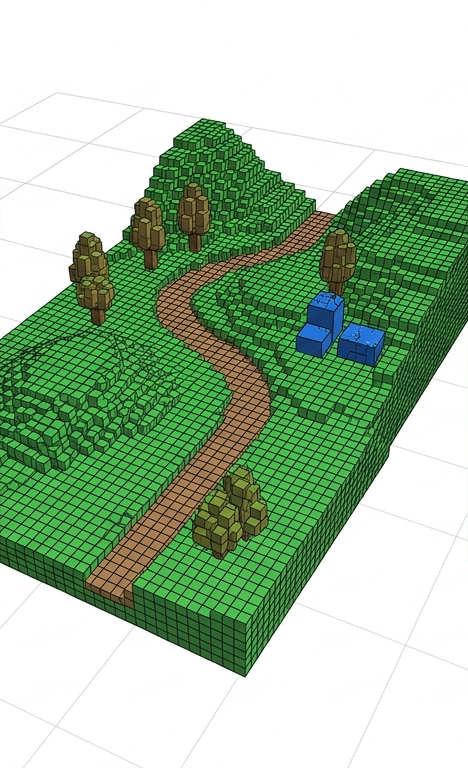
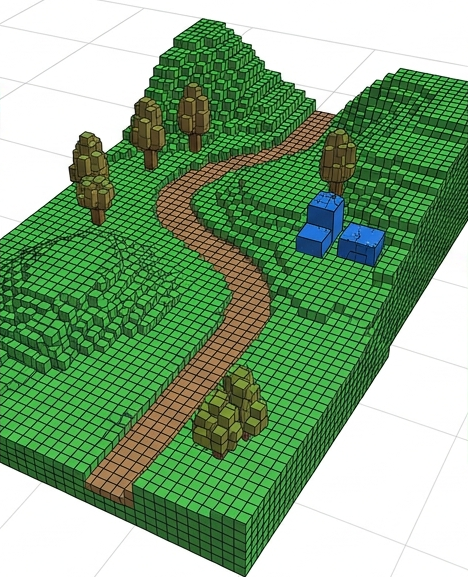
add

diff --git a/secs/3_Datengrundlage/3_3_Software-Architektur_und_verwendete_Werkzeuge.tex b/secs/3_Datengrundlage/3_3_Software-Architektur_und_verwendete_Werkzeuge.tex
@@ -1,23 +1,28 @@
 \subsection{Software-Architektur und verwendete Werkzeuge}
 
-Die automatisierte Datenverarbeitung und Visualisierung erfolgt in der Programmiersprache \textit{Python (Version 3.11.15)} \cite{zotero-item-49}. Zur Bereitstellung einer reproduzierbaren und systemunabhängigen Entwicklungsumgebung kommt die Distributionsplattform \textit{Anaconda (Version 26.1.1)} \cite{zotero-item-50} zum Einsatz. Somit können Versionskonflikte zwischen den teils komplexen C-basierten Abhängigkeiten der verwendeten Geodaten-Bibliotheken vermieden werden. Das Fundament der Vektor- und Rasterdatenverarbeitung sowie der räumlichen Referenzierung bilden folgende Bibliotheken:
-\begin{itemize}
-  \item \textit{GeoPandas (Version 1.1.3)} \cite{zotero-item-51}
-  \item \textit{Shapely (Version 2.1.2)} \cite{zotero-item-52}
-  \item \textit{Rasterio (Version 1.4.4)} \cite{zotero-item-53} 
-\end{itemize}
+Die automatisierte Datenverarbeitung und Visualisierung erfolgt in der Programmiersprache \textit{Python (Version 3.11.15)} \cite{zotero-item-49}. Zur Bereitstellung einer reproduzierbaren und systemunabhängigen Entwicklungsumgebung kommt die Distributionsplattform \textit{Anaconda (Version 26.1.1)} \cite{zotero-item-50} zum Einsatz. Somit können Versionskonflikte zwischen den teils komplexen C-basierten Abhängigkeiten der verwendeten Geodaten-Bibliotheken vermieden werden. Die verwendeten Bibliotheken sowie ihr Einsatzgebiet sind in Tabelle \ref{tab:python-lib} dargestellt.
 
-Die vorbereitende Verarbeitung der originalen LiDAR-Punktwolken übernehmen spezialisierte Bibliotheken wie
-\begin{itemize}
-    \item \textit{PDAL (Version 2.10.0)} \cite{zotero-item-54}
-    \item \textit{Laspy (Version 2.7.0)} \cite{zotero-item-55}
-\end{itemize}
 
-Aufbauend auf diesen bereinigten Daten erfolgt die Segmentierung durch den Einsatz mathematischer Algorithmen aus 
-\begin{itemize}
-    \item \textit{SciPy (Version 1.17.1)} \cite{zotero-item-70} 
-    \item \textit{scikit-image (Version 0.26.0)} \cite{zotero-item-72}
-\end{itemize}
-Für die Visualisierung wurde primär \textit{PyVista (Version 0.48.4)} \cite{zotero-item-56} eingesetzt.
+
+\begin{table}[htbp]
+\centering
+\caption{Übersicht der eingesetzten Softwarekomponenten und Python-Bibliotheken}
+\label{tab:python-lib}
+\small
+\begin{tabular*}{\textwidth}{@{\extracolsep{\fill}} l p{2.2cm} p{1.2cm} p{4.2cm} p{4.0cm} @{}}
+\toprule
+\textbf{Kategorie} & \textbf{Bibliothek} & \textbf{Version} & \textbf{Funktion} & \textbf{Referenz} \\
+\midrule
+\addlinespace
+\textbf{Geodaten} & GeoPandas \newline Shapely \newline Rasterio & 1.1.3 \newline 2.1.2 \newline 1.4.4 & Vektor- und Rasterdatenverarbeitung; räumliche Referenzierung. & \cite{zotero-item-51} \newline \cite{zotero-item-52} \newline \cite{zotero-item-53} \\
+\addlinespace
+\textbf{Punktwolken} & PDAL \newline Laspy & 2.10.0 \newline 2.7.0 & Verarbeitung, Filterung und Einlesen der originalen LiDAR-Daten & \cite{zotero-item-54} \newline \cite{zotero-item-55} \\
+\addlinespace
+\textbf{Segmentierung} & SciPy \newline scikit-image & 1.14.0 \newline 0.26.0 & Mathematische Algorithmen und Raster-Segmentierung & \cite{zotero-item-70} \newline \cite{zotero-item-72} \\
+\addlinespace
+\textbf{Visualisierung} & PyVista & 0.48.4 & Interaktives 3D-Rendering und visuelle Qualitätskontrolle & \cite{zotero-item-56}  \\
+\bottomrule
+\end{tabular*}
+\end{table}
 
 Abseits der Codeumgebung war eine visuelle Qualitätskontrolle der räumlichen Daten unerlässlich. Hierfür wurde die Open-Source-Software \textit{CloudCompare (Version 2.13.2)} \cite{zotero-item-57} eingesetzt, die ein performantes Rendering der ALS-Datensätze ermöglicht.

diff --git a/secs/2_Hintergrund/2_2_1_Raster-_versus_punktwolkenbasierte_Verfahren_zur_Einzelbaumsegmentierung.tex b/secs/2_Hintergrund/2_2_1_Raster-_versus_punktwolkenbasierte_Verfahren_zur_Einzelbaumsegmentierung.tex
@@ -3,22 +3,21 @@
 Bei der Segmentierung von Bäumen auf Basis von LiDAR-Daten wird grundlegend zwischen \textit{raster- und punktwolkenbasierten Verfahren} unterschieden. Beide Ansätze sind schematisch in Abbildung \ref{fig:raster-vs-pointcloud} präsentiert. Im Folgenden werden die beiden Ansätze gegenübergestellt und deren Eignung für den Kontext urbaner Bäume eingeordnet.
 \begin{figure}[htbp]
     \centering
-    \begin{subfigure}[c]{0.21\columnwidth}%
-        \centering%
-        \includegraphics[width=\textwidth]{imgs/Raster.png}%
-        \caption{Rasterbasiertes Verfahren}%
-        \label{fig:raster}%
-    \end{subfigure}%
-    \hfill%
-    \begin{subfigure}[c]{0.21\columnwidth}%
-        \centering%
-        \includegraphics[width=\textwidth]{imgs/Pointcloud.png}%
-        \caption{Punktwolkenbasiertes Verfahren}%
-        \label{fig:pointcloud}%
-    \end{subfigure}%
-    \caption[Raster- und Punktwolken Darstellung]{Schematischer Vergleich raster- und punktwolkenbasierter Segmentierungsverfahren (generiert mit Google Gemini, generiert am 15.07.2026)}\label{fig:raster-vs-pointcloud}
+    \begin{subfigure}[c]{0.21\columnwidth}
+        \centering
+        \includegraphics[width=\textwidth]{imgs/Raster.png}
+        \caption{Rasterbasiertes Verfahren}
+        \label{fig:raster}
+    \end{subfigure}
+    \hspace{2cm}
+    \begin{subfigure}[c]{0.21\columnwidth}
+        \centering
+        \includegraphics[width=\textwidth]{imgs/Pointcloud.png}
+        \caption{Punktwolkenbasiertes Verfahren}
+        \label{fig:pointcloud}
+    \end{subfigure}
+    \caption[Raster- und Punktwolken Darstellung]{Schematischer Vergleich raster- und punktwolkenbasierter Verfahren (generiert mit Google Gemini, generiert am 15.07.2026)}\label{fig:raster-vs-pointcloud}
 \end{figure}
-
 Beim \textit{rasterbasierten Segmentierungsverfahren} (Abbildung \ref{fig:raster}) wird die 3D-Punktwolke zunächst auf ein planares Raster projiziert, um ein Kronenhöhenmodell (Canopy Height Model, \ac{CHM}) oder ein \textit{digitales Oberflächenmodell (\ac{DOM})} zu erzeugen. Auf dieses 2D-Raster können Bildverarbeitungsalgorithmen angewandt werden. Ein typischer Ablauf beginnt mit der Identifizierung von Baumspitzen über einen Local-Maximum-Filter. Diese detektierten Spitzen dienen als Startpunkte für ein anschließendes \textit{Region Growing}, bei dem benachbarte Pixel nach bestimmten Regeln hinzugefügt werden. Eine weitere gängige Methode ist der \textit{Watershed-} bzw. \textit{Marker-controlled Watershed-Algorithmus}, welcher das Fließen von Wasser auf einem invertierten Rastermodell simuliert, um Baumgrenzen zu isolieren. Während die verfahrenstechnischen Details dieses rasterbasierten Algorithmus im Methodikkapitel (Kapitel 4) vertieft wird, umfassen ergänzende Ansätze folgende Verfahren.\textit{Valley Following} sucht gezielt nach lokalen Minima, um Lücken und Vertiefungen zwischen einzelnen Baumkronen zu detektieren und \textit{Graph-Cut} schneidet die Kronengrenzen entlang der schwächsten Kante \cite{fuIndividualTreeSegmentationUAV2024}.
 
 Der wesentliche Vorteil dieses Ansatzes liegt in seiner hohen Recheneffizienz, wodurch er sich für großflächige Analysen eignet. Zudem lässt sich ein CHM mit geringem Aufwand generieren. Demgegenüber steht jedoch ein systematischer Verlust an 3D-Informationen im Rasterisierungsprozess, da primär die obere Kronenschicht abgebildet wird. Infolgedessen bleiben Bäume in Unterschichten unberücksichtigt, was insbesondere in dichten, mehrschichtigen Beständen zu Segmentierungsfehlern führt \cite{munzingerMappingUrbanForest2022}. Zudem können bei der Generierung des Rastermodells Fehlstellen (\textit{Pits}) entstehen, welche die Genauigkeit nachfolgender Algorithmen stark beeinträchtigen und eine vorherige Interpolation bzw. Glättung erfordern \cite{liIndividualTreeSegmentation2023}.

diff --git a/secs/2_Hintergrund/2_2_2_Visualisierung_von_Baumstrukturen.tex b/secs/2_Hintergrund/2_2_2_Visualisierung_von_Baumstrukturen.tex
@@ -3,23 +3,23 @@
 Nach der Auswertung und Verarbeitung der LiDAR-Punktwolke soll eine adäquate Repräsentation der erfassten Baumstrukturen erfolgen. Die hierfür existierenden Methoden lassen sich im Wesentlichen in die drei in Abbildung \ref{fig:vis} dargestellten Kategorien unterteilen. Dazu gehören die \textit{direkte Visualisierung} (Abbildung \ref{fig:direct}) von Punktwolken, die \textit{voxelbasierte} Diskretisierung (Abbildung \ref{fig:voxel}) und die Modellierung mittels \textit{Polygonnetzen (Meshes)} (Abbildung \ref{fig:mesh}). Da diese Verfahren unterschiedliche geometrische Eigenschaften abbilden, können sie in der Praxis auch komplementär eingesetzt werden.
 \begin{figure}[htbp]
     \centering
-    \begin{subfigure}[b]{0.31\columnwidth}
+    \begin{subfigure}[b]{0.29\columnwidth}
         \centering
-        \includegraphics[width=0.9\textwidth]{imgs/vis-direct.png}
+        \includegraphics[width=\textwidth]{imgs/vis-direct.png}
         \caption{Direkte Visualisierung}
         \label{fig:direct}
     \end{subfigure}
     \hfill 
-    \begin{subfigure}[b]{0.31\columnwidth}
+    \begin{subfigure}[b]{0.29\columnwidth}
         \centering
-        \includegraphics[width=0.9\textwidth]{imgs/vis-voxel.png}
+        \includegraphics[width=\textwidth]{imgs/vis-voxel.png}
         \caption{Voxel-Visualisierung}
         \label{fig:voxel}
     \end{subfigure}
     \hfill
-    \begin{subfigure}[b]{0.31\columnwidth}
+    \begin{subfigure}[b]{0.29\columnwidth}
         \centering
-        \includegraphics[width=0.9\textwidth]{imgs/vis-mesh.png}
+        \includegraphics[width=\textwidth]{imgs/vis-mesh.png}
         \caption{Mesh-Visualisierung}
         \label{fig:mesh}
     \end{subfigure}

diff --git a/secs/1_Einleitung/1_3_Aufbau_der_Arbeit.tex b/secs/1_Einleitung/1_3_Aufbau_der_Arbeit.tex
@@ -1,3 +1,3 @@
 \subsection{Aufbau der Arbeit}
 
-Kapitel 2 vermittelt zunächst die theoretischen Grundlagen der LiDAR-Technologie sowie den aktuellen Stand der Technik bezüglich algorithmischen Einzelbaumsegmentierung und dreidimensionaler Repräsentationsmethoden. Kapitel 3 beschreibt die spezifische Entwicklungsumgebung und definiert die geometrische sowie administrative Datengrundlage des Untersuchungsgebiets in Leipzig. Die methodische Konzeption und softwaretechnische Implementierung des vierteiligen Workflows, bestehend aus der Datenvorbereitung, der Einzelbaumsegmentierung, der semantischen Datenanreicherung sowie dem Entwurf des interaktiven Visualisierungskonzepts, werden in Kapitel 4 detailliert dargelegt. In Kapitel 5 erfolgt die Evaluierung der Segmentierungs- und Fusionsergebnisse anhand gewählter Testgebiete sowie die Demonstration des entwickelten Prototyps. Die Arbeit schließt in Kapitel 6 mit einer kritischen Diskussion der Systemgrenzen, einer Einordnung des praktischen Nutzens sowie einem Ausblick auf zukünftige datenbasierte Entwicklungen.
+Kapitel 2 vermittelt zunächst die theoretischen Grundlagen der LiDAR-Technologie sowie den algorithmischen Ansätze zur Einzelbaumsegmentierung und Präsentation. Kapitel 3 beschreibt die spezifische Entwicklungsumgebung und definiert die geometrische sowie administrative Datengrundlage des Untersuchungsgebiets in Leipzig. Die methodische Konzeption und softwaretechnische Implementierung des vierteiligen Workflows, bestehend aus der Datenvorbereitung, der Einzelbaumsegmentierung, der semantischen Datenanreicherung sowie dem Entwurf des interaktiven Visualisierungskonzepts, werden in Kapitel 4 detailliert dargelegt. In Kapitel 5 erfolgt die Evaluierung der Segmentierungs- und Fusionsergebnisse anhand gewählter Testgebiete sowie die Demonstration des entwickelten Prototyps. Die Arbeit schließt in Kapitel 6 mit einer kritischen Diskussion der Systemgrenzen, einer Einordnung des praktischen Nutzens sowie einem Ausblick auf zukünftige datenbasierte Entwicklungen.

diff --git a/secs/2_Hintergrund/2_1_1_Bedeutung und_Einsatz_von_LiDAR-Systemen.tex b/secs/2_Hintergrund/2_1_1_Bedeutung und_Einsatz_von_LiDAR-Systemen.tex
@@ -1,5 +1,5 @@
 \subsubsection{Bedeutung und Einsatz von LiDAR-Systemen}
 
-LiDAR ist ein laserbasiertes System, das durch präzise Distanzmessungen dreidimensionale Strukturen erfasst. Erste luftgestützte Systeme wurden bereits 1964 in der Forstwirtschaft zur Messung von Baumhöhen eingesetzt \cite{thapaForestAbovegroundBiomass2025}. Seither wird die Technologie kontinuierlich weiterentwickelt, da sie in verschiedenen Anwendungsbereichen maßgebliche Vorteile bietet. Im Gegensatz zu Kamerasystemen benötigen LiDAR-Sensoren kein externes Umgebungslicht. Zudem sind die Messungen materialunabhängig und liefern hochpräzise Ergebnisse in hoher Frequenz \cite{lopacApplicationLaserSystems2022}.
+LiDAR ist ein laserbasiertes System, das durch präzise Distanzmessungen 3D-Strukturen erfasst. Erste luftgestützte Systeme wurden bereits 1964 in der Forstwirtschaft zur Messung von Baumhöhen eingesetzt \cite{thapaForestAbovegroundBiomass2025}. Seither wird die Technologie kontinuierlich weiterentwickelt, da sie in verschiedenen Anwendungsbereichen maßgebliche Vorteile bietet. Im Gegensatz zu Kamerasystemen benötigen LiDAR-Sensoren kein externes Umgebungslicht. Zudem sind die Messungen materialunabhängig und liefern hochpräzise Ergebnisse in hoher Frequenz \cite{lopacApplicationLaserSystems2022}.
 
 Die Erfassung von LiDAR-Daten kann über unterschiedliche Plattformen erfolgen, deren Wahl von den spezifischen Anforderungen an Reichweite und Präzision abhängt. Während stationäre Systeme wie das \textit{terrestrische Laser Scanning} (\ac{TLS}) durch ihre feste Montage räumlich begrenzt sind, liefern sie hochpräzise Aufnahmen einzelner Objekte. Eine vergleichbar hohe Genauigkeit bieten \textit{kinematische Systeme} (\ac{MLS}). Diese sind auf beweglichen Plattformen installiert und finden beispielsweise Einsatz im Straßenverkehr, bleiben jedoch auf befahrbare Routen beschränkt. Für einen weiträumigen Überblick werden \textit{luftgestützte Systeme} (\ac{ALS}) auf Flugzeugen oder Drohnen montiert. Ihre Messgenauigkeit ist im Vergleich zu den vorherigen Verfahren geringer, sie eignen sich jedoch für die großflächige Fernerkundung. Den globalen Maßstab bilden \textit{satellitengestützte Systeme} (Spaceborne LiDAR), die zwar eine deutlich geringere Auflösung aufweisen, allerdings einen umfassenden Überblick über das gesamte Ökosystem ermöglichen \cite{lopacApplicationLaserSystems2022}.

diff --git a/secs/2_Hintergrund/2_2_Algorithmische_Ansaetze.tex b/secs/2_Hintergrund/2_2_Algorithmische_Ansaetze.tex
@@ -1,3 +1,3 @@
 \subsection{Paradigmen der datenbasierten Baumsegmentierung und -repräsentation}
 
-Bei der Modellierung urbaner Baumstrukturen aus LiDAR-Daten erfordern insbesondere die Schritte der Einzelbaumsegmentierung und der anschließenden Visualisierung eine gezielte methodische Abwägung. Die jeweiligen Umsetzungen der beiden Phasen unterscheiden sich grundlegend hinsichtlich ihrer Datenstruktur, Recheneffizienz und ihres Detailgrads. Als theoretische Grundlage für spätere Designentscheidungen dieser Arbeit werden im Folgenden zunächst die raster- und punktwolkenbasierten Ansätze zur Einzelbaumsegmentierung vergleichend gegenübergestellt, bevor gängige Verfahren zur dreidimensionalen Repräsentation der extrahierten Baumstrukturen analysiert werden.
+Bei der Modellierung urbaner Baumstrukturen aus LiDAR-Daten erfordern insbesondere die Schritte der Einzelbaumsegmentierung und der anschließenden Visualisierung eine gezielte methodische Abwägung. Die jeweiligen Umsetzungen der beiden Phasen unterscheiden sich grundlegend hinsichtlich ihrer Datenstruktur, Recheneffizienz und ihres Detailgrads. Als theoretische Grundlage für spätere Designentscheidungen dieser Arbeit werden im Folgenden zunächst die raster- und punktwolkenbasierten Ansätze zur Einzelbaumsegmentierung vergleichend gegenübergestellt, bevor gängige Verfahren zur 3D-Repräsentation der extrahierten Baumstrukturen analysiert werden.

diff --git a/secs/6_Diskussion+Fazit/6_2_Nutzen_der_Ergebnisse_fuer_das_UFZ_Leipzig_und_die_Stadtplanung.tex b/secs/6_Diskussion+Fazit/6_2_Nutzen_der_Ergebnisse_fuer_das_UFZ_Leipzig_und_die_Stadtplanung.tex
@@ -1,6 +1,6 @@
 \subsection{Nutzen der Ergebnisse für das UFZ Leipzig und die Stadtplanung}
 
-Die aus dem entwickelten Workflow resultierenden Daten- und Visualisierungsprodukte bieten sowohl für die kommunale Verwaltung als auch für die ökologische Forschung einen erheblichen Mehrwert. Durch die automatisierte Extraktion dreidimensionaler Strukturparameter und deren Kopplung mit dem städtischen Baumkataster wird die Lücke zwischen administrativen Sachdaten und realer Vegetationsgeometrie geschlossen.
+Die aus dem entwickelten Workflow resultierenden Daten- und Visualisierungsprodukte bieten sowohl für die kommunale Verwaltung als auch für die ökologische Forschung einen erheblichen Mehrwert. Durch die automatisierte Extraktion 3D-Strukturparameter und deren Kopplung mit dem städtischen Baumkataster wird die Lücke zwischen administrativen Sachdaten und realer Vegetationsgeometrie geschlossen.
 
 Für die Stadt Leipzig, insbesondere für das Amt für Stadtgrün und Gewässer, liegt der primäre Nutzen in der datenbasierten Anreicherung und Qualitätssteigerung des bestehenden Baumkatasters. Der vorgestellte Workflow ermöglicht es, Datenlücken im Baumkataster flächendeckend zu schließen und bestehende Fehlschätzungen zu korrigieren. Zudem erlaubt die Identifikation nicht verzeichneter Bäume eine realistischere Erfassung des tatsächlichen urbanen Kronendachs. Dies verbessert die Planungsgrundlage für gezielte Baumpflegemaßnahmen, Nachpflanzungen sowie für die Berücksichtigung des Baumbestands bei städtischen Bau- und Planungskonzepten.
 